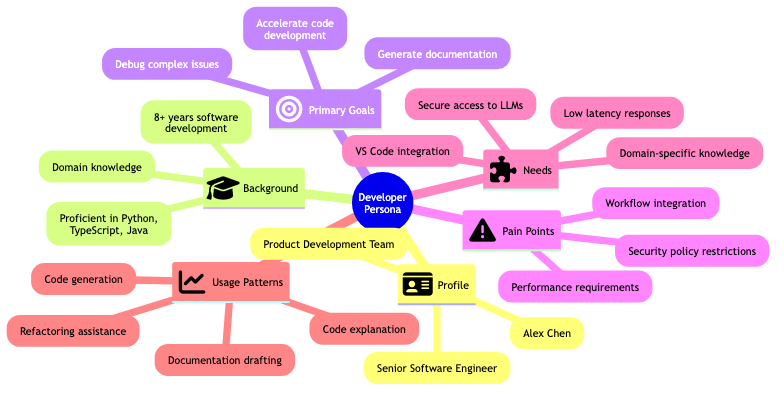
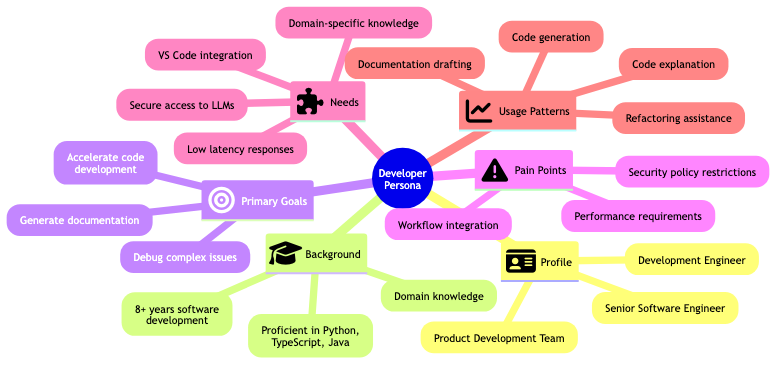
Add security and devops persona diagrams and update developer persona diagram to use generic role names

diff --git a/diagrams/developer-persona-diagram.md b/diagrams/developer-persona-diagram.md
@@ -92,6 +92,13 @@ mindmap
       (Shadow IT)
 ```
 
+## Rendered Security Persona Diagram
+
+![Security Persona Diagram](images/security-persona.png)
+*Security Persona Profile showing key characteristics, goals and needs of security professionals managing AI systems*
+
+This diagram is defined in the Mermaid file [security-persona.mmd](images/security-persona.mmd) and rendered as [security-persona.png](images/security-persona.png).
+
 ## DevOps Team Persona Diagram
 
 ```mermaid
@@ -129,6 +136,13 @@ mindmap
       (CloudWatch/X-Ray)
       (CodePipeline/GitHub Actions)
 ```
+
+## Rendered DevOps Persona Diagram
+
+![DevOps Persona Diagram](images/devops-persona.png)
+*DevOps Persona Profile showing key characteristics, goals and needs of infrastructure engineers supporting AI systems*
+
+This diagram is defined in the Mermaid file [devops-persona.mmd](images/devops-persona.mmd) and rendered as [devops-persona.png](images/devops-persona.png).
 
 ## Key Insights for Solution Design
 
